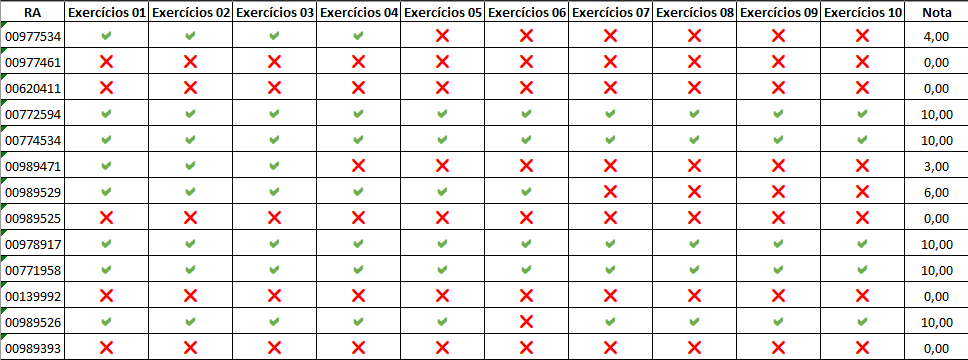
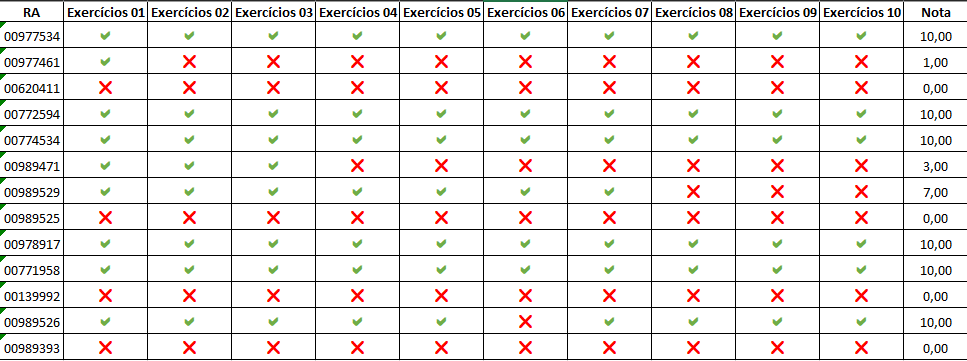
Presença/Notas

Changed region(s): [[0.0, 0.0, 1.0, 1.0]]

diff --git a/README.md b/README.md
@@ -49,7 +49,9 @@ Objetivos específicos
 # Notas Atividades
 
 ![Notas Atividade JS](imagens/NotasAtividadeJS.png)
+# Notas Atividades 02
 
+![Notas Atividade JS](imagens/NotasAtividade02JS.png)
 
 
 ## Materiais de Aula
